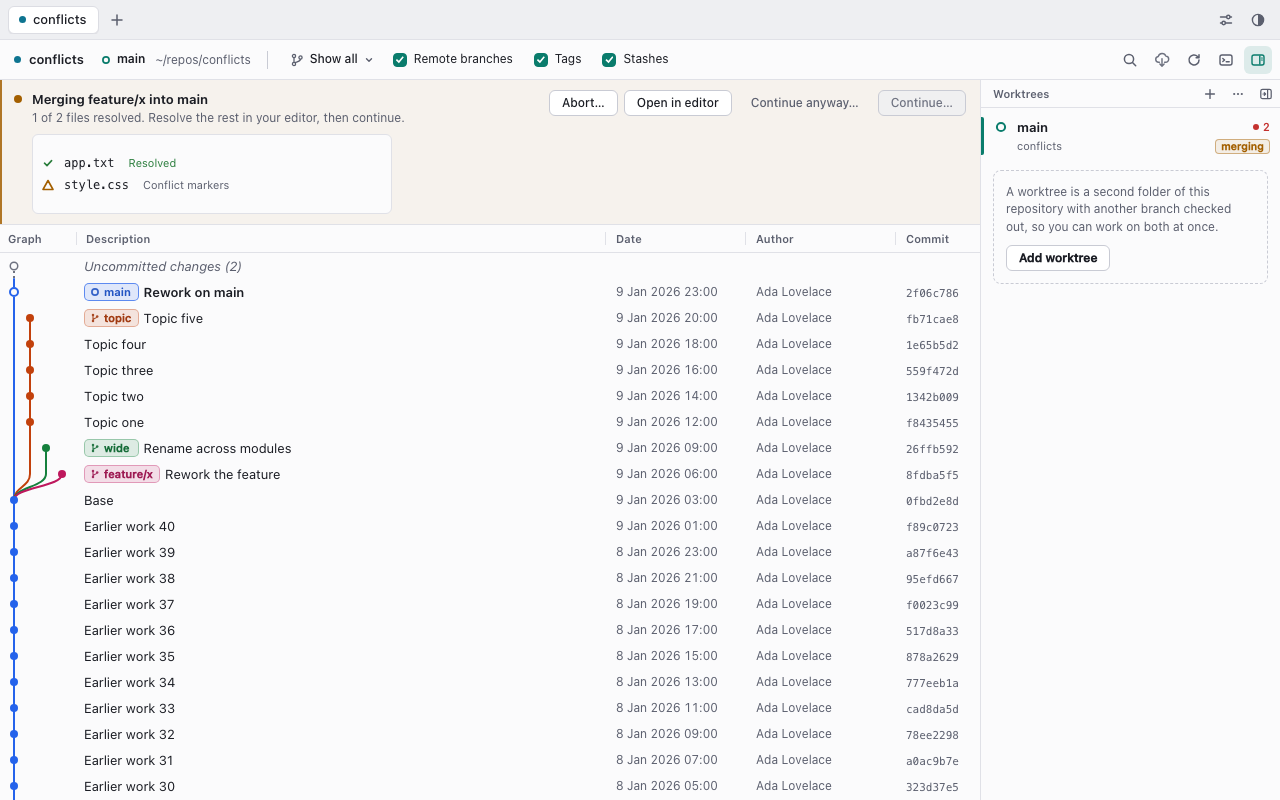
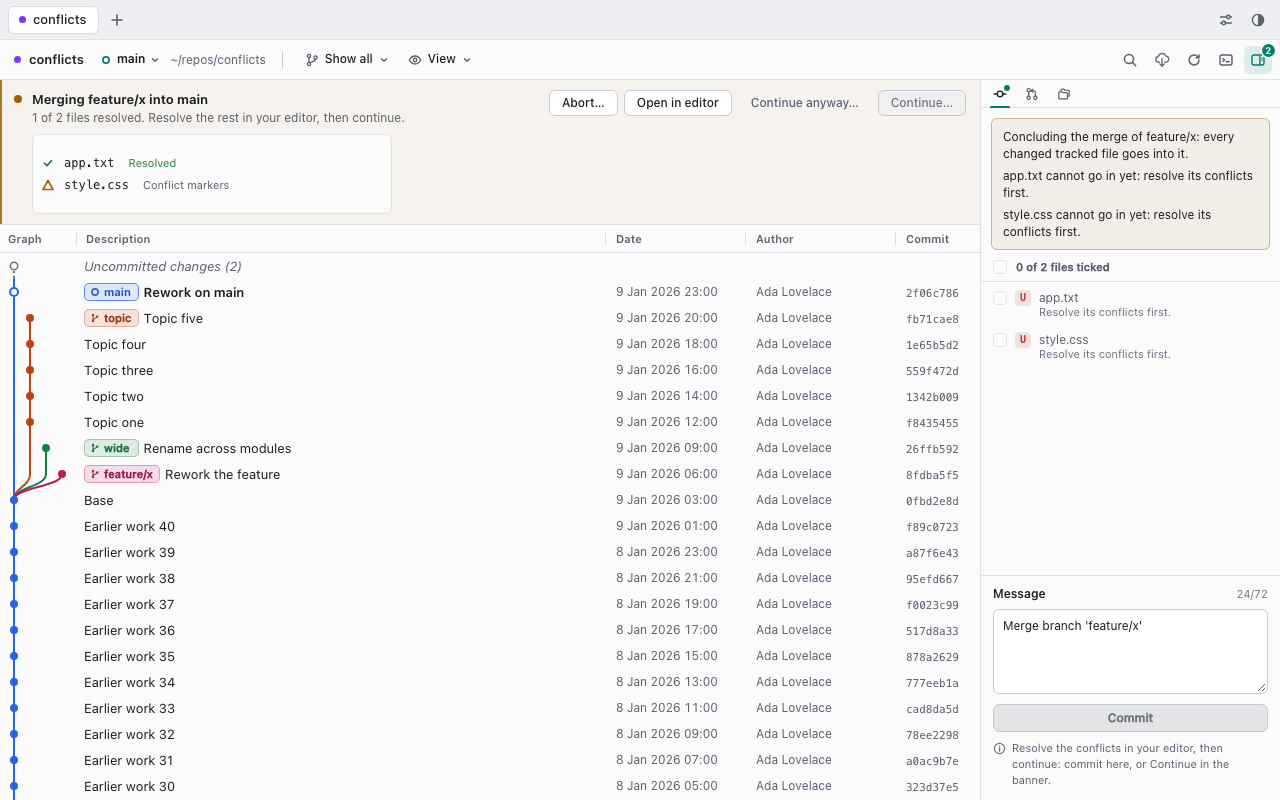
docs: the README's screenshots retaken with the side panel's tabs, and new ones of the Pull request tab (a pull request's status, checks and comments; the create form) and of Committed on branch; version 0.5.0, the setting that opens the Pull request tab after a push

diff --git a/README.md b/README.md
@@ -1,14 +1,14 @@
 # gg
 
-A small, fast desktop app for the git commit graph, your worktrees, and the everyday actions
-on them.
+A small, fast desktop app for the git commit graph, your worktrees and pull requests, and the
+everyday actions on them.
 
 [![Licence: MIT](https://img.shields.io/badge/licence-MIT-blue.svg)](LICENSE)
 
 <picture>
   <source media="(prefers-color-scheme: dark)" srcset="docs/screens/graph-dark.png">
   <source media="(prefers-color-scheme: light)" srcset="docs/screens/graph-light.png">
-  <img alt="gg showing a repository's commit graph: coloured lanes on the left, branch, remote and tag labels beside each commit's subject, then date, author and short hash columns, and the worktree panel on the right" src="docs/screens/graph-light.png" width="1280">
+  <img alt="gg showing a repository's commit graph: coloured lanes on the left, branch, remote and tag labels beside each commit's subject, then date, author and short hash columns, and the side panel on the right, on its Worktrees tab" src="docs/screens/graph-light.png" width="1280">
 </picture>
 
 ## Why
@@ -126,7 +126,7 @@ afterwards and says which it is.
 <picture>
   <source media="(prefers-color-scheme: dark)" srcset="docs/screens/worktrees-dark.png">
   <source media="(prefers-color-scheme: light)" srcset="docs/screens/worktrees-light.png">
-  <img alt="The worktree panel beside the graph: eight worktrees, each with its branch, its uncommitted changes and how it stands with its upstream, and markers for a merge in progress, a missing folder and a locked worktree" src="docs/screens/worktrees-light.png" width="640">
+  <img alt="The side panel's Worktrees tab beside the graph: eight worktrees, each with its branch, its uncommitted changes and how it stands with its upstream, and markers for a merge in progress, a missing folder and a locked worktree" src="docs/screens/worktrees-light.png" width="640">
 </picture>
 
 - The side panel (⌘B, or its button at the right of the toolbar) has three icon tabs, Commit,
@@ -148,7 +148,7 @@ afterwards and says which it is.
 <picture>
   <source media="(prefers-color-scheme: dark)" srcset="docs/screens/commit-panel-dark.png">
   <source media="(prefers-color-scheme: light)" srcset="docs/screens/commit-panel-light.png">
-  <img alt="The commit panel: six changed files, each ticked, with its status letter, a message box with a subject and a body, and the Commit and Commit and Push to origin/main buttons" src="docs/screens/commit-panel-light.png" width="640">
+  <img alt="The side panel's Commit tab: six changed files, each ticked, with its status letter, a message box with a subject and a body, and the Commit and Commit and Push to origin/main buttons" src="docs/screens/commit-panel-light.png" width="640">
 </picture>
 
 Press ⌘K (or open the side panel's Commit tab, or click a worktree's change count) to commit the files
@@ -160,12 +160,18 @@ branch's own commits change since it left its base (the pull request's base, els
 branch it was created from, as the pull request form offers it): each file with its folder,
 lines added and removed, and its status.
 
+<picture>
+  <source media="(prefers-color-scheme: dark)" srcset="docs/screens/committed-on-branch-dark.png">
+  <source media="(prefers-color-scheme: light)" srcset="docs/screens/committed-on-branch-light.png">
+  <img alt="The Commit tab on feature/report: two changed files ticked and a message, and under the Commit buttons, Committed on branch: 5 files against origin/main, each with its folder, lines added and removed and its status letter, one of them renamed from docs/old-guide.md" src="docs/screens/committed-on-branch-light.png" width="640">
+</picture>
+
 **Pull requests**
 
 <picture>
-  <source media="(prefers-color-scheme: dark)" srcset="docs/screens/pull-requests-dark.png">
-  <source media="(prefers-color-scheme: light)" srcset="docs/screens/pull-requests-light.png">
-  <img alt="Pull request markers such as #1284 and #1295 beside branch labels in the graph and beside a worktree in the side panel" src="docs/screens/pull-requests-light.png" width="640">
+  <source media="(prefers-color-scheme: dark)" srcset="docs/screens/pr-details-dark.png">
+  <source media="(prefers-color-scheme: light)" srcset="docs/screens/pr-details-light.png">
+  <img alt="The side panel's Pull request tab for fix/typo: pull request #1302, open, main ← fix/typo, with Open in browser and Copy link; Ready to merge and Approved; four passing checks; and four comments with an All, Humans and Bots filter: a person's comment, a bot's, a code comment on README.md:3 with its reply, and an approving review" src="docs/screens/pr-details-light.png" width="640">
 </picture>
 
 Through the GitHub CLI [`gh`](https://cli.github.com), signed in. The side panel's **Pull
@@ -182,6 +188,18 @@ anything else from the web; a link opens in your browser. After you push a branc
 pull request, the tab opens by itself (a setting). Open pull requests show as markers beside
 their branches and worktrees. Without `gh`, gg pushes the branch and opens GitHub's compare
 page instead. gg never reads or stores a GitHub token.
+
+<picture>
+  <source media="(prefers-color-scheme: dark)" srcset="docs/screens/pr-create-dark.png">
+  <source media="(prefers-color-scheme: light)" srcset="docs/screens/pr-create-light.png">
+  <img alt="The Pull request tab for fix/typo, which has no pull request yet: the title and description suggested from its commit, into main of octo/cat, Create as draft, and the button Push and create PR, which pushes first to origin/fix/typo" src="docs/screens/pr-create-light.png" width="640">
+</picture>
+
+<picture>
+  <source media="(prefers-color-scheme: dark)" srcset="docs/screens/pull-requests-dark.png">
+  <source media="(prefers-color-scheme: light)" srcset="docs/screens/pull-requests-light.png">
+  <img alt="Pull request markers such as #1284 and #1295 beside branch labels in the graph and beside a worktree in the side panel's Worktrees tab" src="docs/screens/pull-requests-light.png" width="640">
+</picture>
 
 **Right-click actions**
 
@@ -234,7 +252,7 @@ applied has nothing left to apply.
 - The command log (⌘⇧L) shows every git command gg ran for the repository, grouped by
   operation, with its output, exit code and duration. A failed operation's notice links to
   its entry.
-- The graph and the worktree panel refresh by themselves when the repository changes on disk
+- The graph and the side panel refresh by themselves when the repository changes on disk
   (a commit in a terminal, an agent working in a worktree), keeping your scroll position, and
   gg fetches from your remotes in the background, every 5 minutes by default.
 
@@ -242,7 +260,7 @@ applied has nothing left to apply.
 
 **Settings** (⌘,) holds the theme (follow the system, light or dark), the date format, the
 background fetch interval (or turning it off), the editor and terminal gg opens, where new
-worktrees go, and the `gg` command. The button at the top right of the window cycles the
+worktrees go, whether a push opens the Pull request tab, and the `gg` command. The button at the top right of the window cycles the
 theme.
 
 **Keyboard**
@@ -254,7 +272,7 @@ On Windows and Linux, Ctrl stands for ⌘. Press **?** in the app for the full l
 | ⌘O | Open a repository |
 | ⌘F | Search commits (Enter / Shift+Enter: next / previous) |
 | ⌘⇧F | Fetch from all remotes |
-| ⌘R | Refresh |
+| ⌘R | Refresh (and the pull requests) |
 | ⌘P | Switch branch, or create one (the branch picker) |
 | ⌘K | Commit (the side panel's Commit tab, its message focused); ⌘Enter commits |
 | ⌘⇧P | The side panel's Pull request tab, for the current branch |
@@ -384,7 +402,7 @@ Method, all numbers, the misses, and how to reproduce them:
 
 ## Status
 
-gg is at version 0.4.0. It is used every day on macOS. The Windows and Linux builds are built
+gg is at version 0.5.0. It is used every day on macOS. The Windows and Linux builds are built
 and tested on CI on every change, but have not been used for real yet.
 
 ## Contributing
